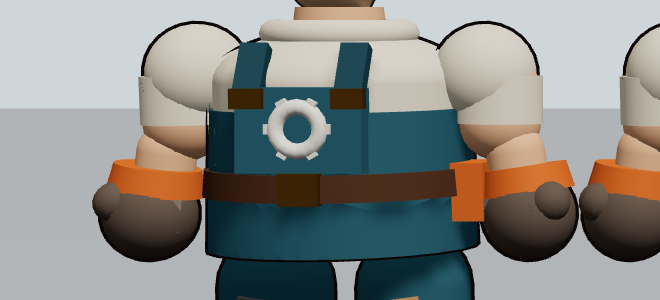
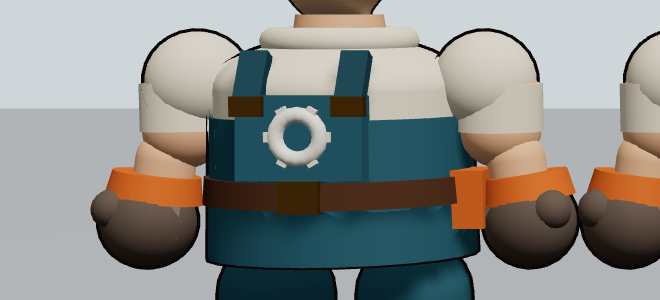
docs: capturas comparables y resultados de la prueba en el juego
Capturas antes/después con misma resolución, cámara y escala, y registro de
lo comprobado en el juego real (movimiento, agarre, primera persona).

Claude-Session: https://claude.ai/code/session_01LS4EPMENteCDAVs2gnJE4y

diff --git a/docs/capturas-ajustes-personaje/RESULTADOS.md b/docs/capturas-ajustes-personaje/RESULTADOS.md
@@ -1,0 +1,19 @@
+# Resultados de verificación (ajustes de cuerpo, ropa y contorno)
+
+Entorno: Chromium headless con render por software (SwiftShader), sin GPU. A viewport de 1000x600 el juego corre a ~3 fps; a 360x220, ~8 fps.
+
+## Comparación de contorno en primera persona
+`antes_primera_persona.png` / `despues_primera_persona.png`: laboratorio `?lab=character&set=outfits&view=firstPerson&pose=carry`, viewport 1100x600, deviceScaleFactor 2, mismo recorte (0,400,1100x200). Grosor del trazo oscuro de las manos, medido en píxeles de la imagen: ~14–16 px antes, ~7–9 px después.
+`antes_manga.png` / `despues_manga.png`: mismo laboratorio, vista de frente, reposo, mismo recorte.
+
+## Juego real (`npm run dev`, tras "Entrar al Taller")
+- `npm run build`: OK (solo el aviso de chunks > 500 kB).
+- Movimiento: W avanza (telemetría `px/pz` cambia, `isOnGround` true), Espacio salta. Sin errores de consola.
+- Agarre: `E` junto a una caja → `carriedKind = crate`; caminar con carga funciona; `E` de nuevo la suelta (`carriedKind` vacío).
+- Primera persona: `V` x3 (3ª Cerca → 3ª Amplia → 1ªP). Capturas `juego_primera_persona_*.png`.
+- Observación sin resolver: en primera persona con la caja cargada, la caja ocupa la parte baja de la pantalla y tapa las manos (`juego_primera_persona_con_caja.png`). No hay línea base para saber si es el diseño previsto; queda para criterio humano.
+- A bajo fps (3 fps) el personaje rebotaba (py 0.65↔1.0); a 8 fps quedó estable en 0.861. Se atribuye al render por software, no al código.
+
+## No probado
+- iPhone 11 real (táctil, rendimiento, contorno en pantalla chica, atuendos en movimiento).
+- Fluidez real a 60 fps y con GPU.
